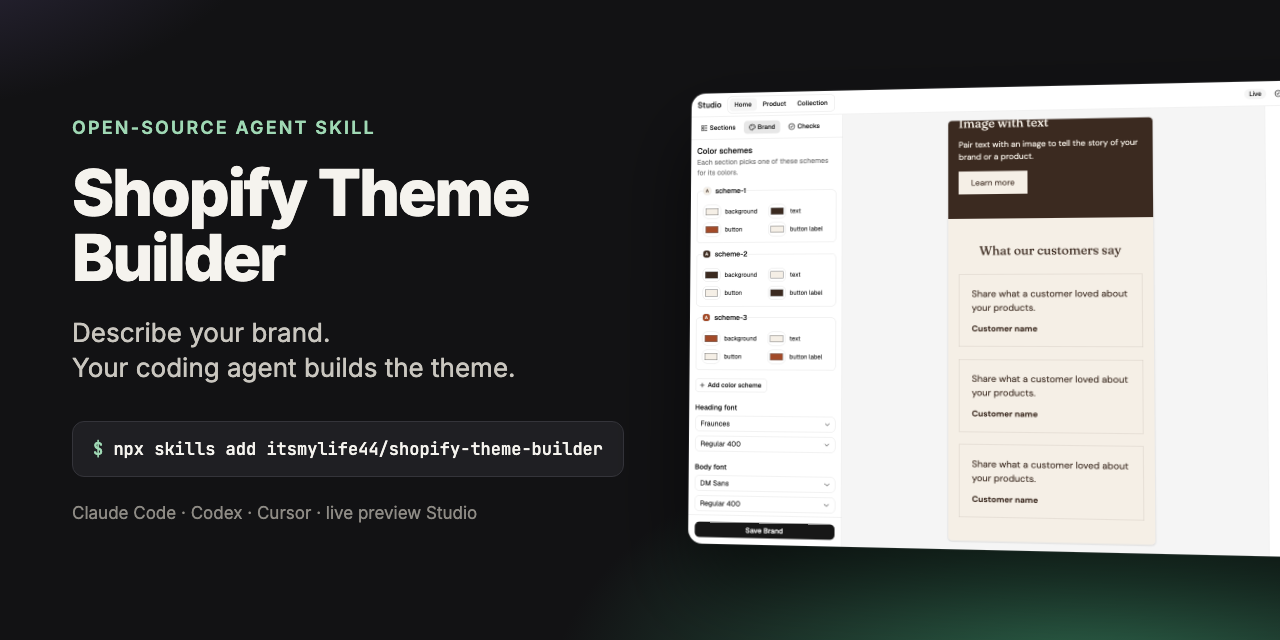
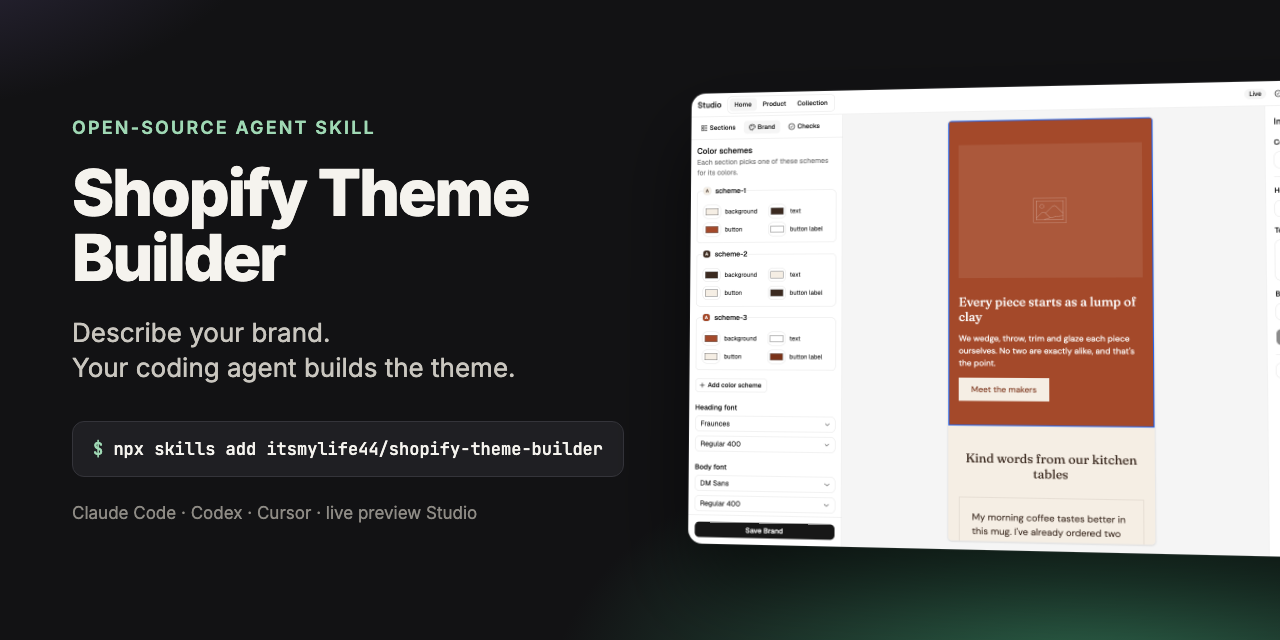
Show an English demo store in the README's images and a demo GIF
The screenshots came from an Italian dogfood store with placeholder
text and the duplicate email signup fixed in #19. They now show an
English store with real copy, and the README opens on a short GIF of
editing a section in the Studio.
Claude-Session: https://claude.ai/code/session_012MQrH2eLJFZaasdVrdeLAf

Changed region(s): [[0.7188, 0.1562, 0.9062, 0.8438]]

diff --git a/README.md b/README.md
@@ -12,7 +12,7 @@ An agent skill for Claude Code, Codex, Cursor and other coding agents: it turns 
 
 [Quickstart](#quickstart) · [How it works](#how-it-works) · [The Studio](#the-studio) · [Sections](#the-section-catalog) · [FAQ](#faq)
 
-![The Studio: the home page's sections on the left, the live Shopify preview in the middle, the selected section's settings on the right](docs/images/studio.png)
+![The Studio: selecting the hero, rewriting its heading and switching its color scheme, while the live Shopify preview updates](docs/images/demo.gif)
 
 </div>
 
@@ -67,6 +67,8 @@ flowchart LR
 ## The Studio
 
 The Studio is a local app that opens next to your agent, in Google Chrome. It shows your real theme, rendered by Shopify through `shopify theme dev`, and saves every change straight into the theme's files, where your agent sees it too.
+
+![The Studio: the home page's sections on the left, the live Shopify preview in the middle, the selected section's text on the right](docs/images/studio.png)
 
 - **Click to edit.** Click a section in the preview, or in the list on the left. On the right, pick its color scheme, rewrite its text (and its blocks' text, like each testimonial), move it or remove it.
 - **Add sections** from the Section Catalog, or the Custom Sections your agent wrote.
